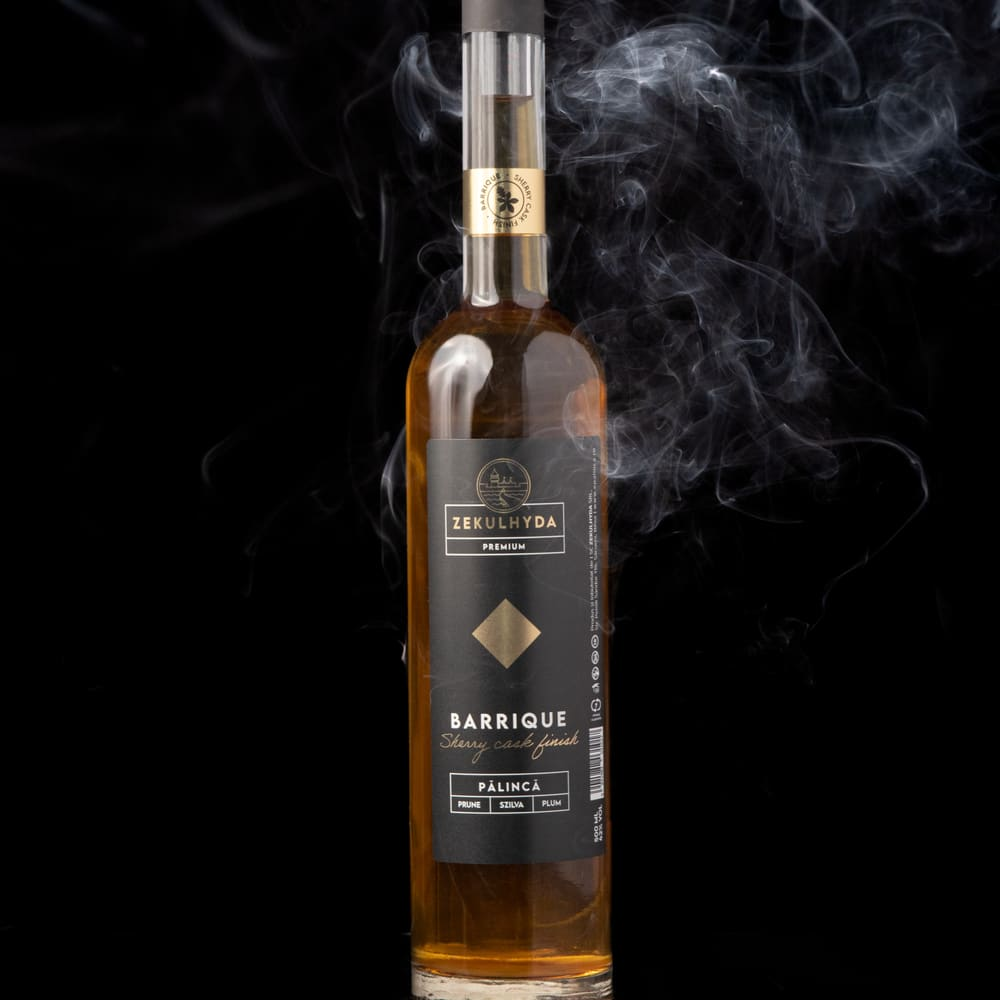
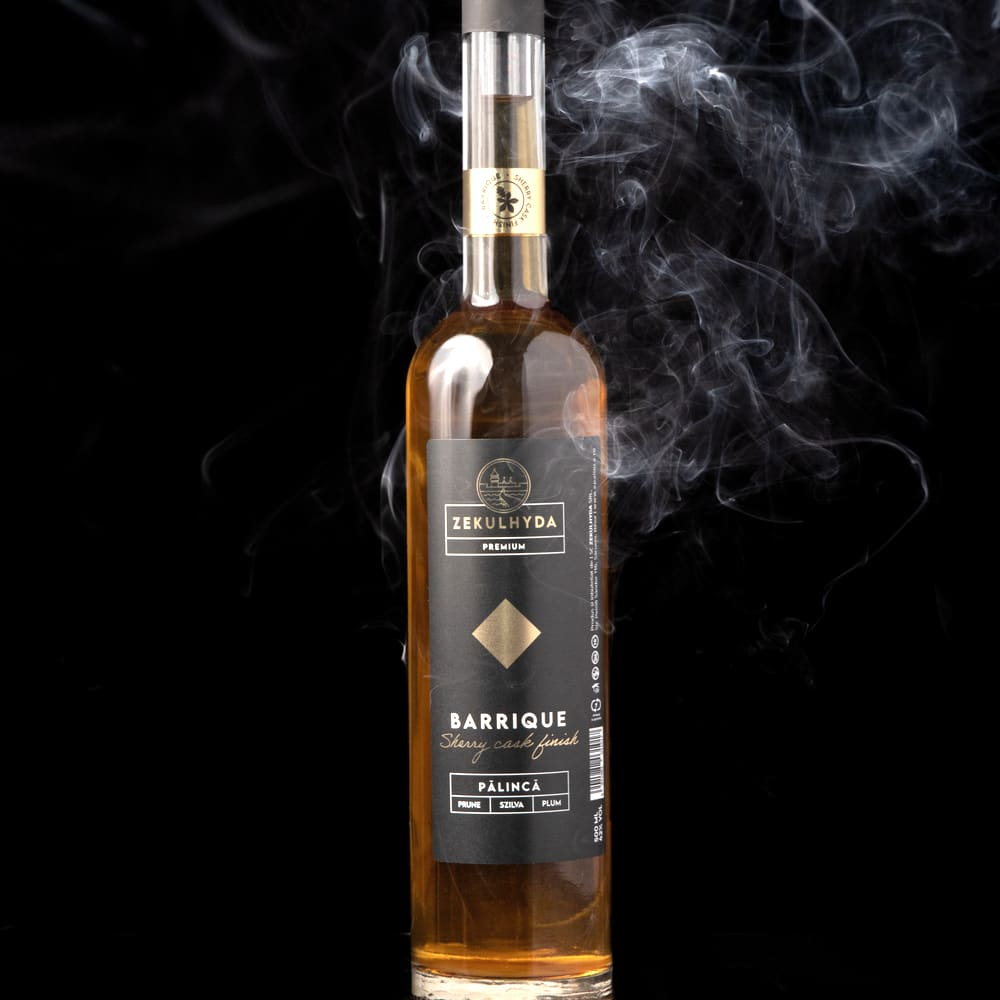
Tier photos brighter and more visible

Changed region(s): [[0.372, 0.0, 0.744, 0.837], [0.403, 0.93, 0.62, 1.0]]

diff --git a/assets/zekulhyda.css b/assets/zekulhyda.css
@@ -3174,8 +3174,8 @@ nav.main a.nav-shop.on { border-color: var(--amber-2); }
 
 
 /* Range tiers on photos: the picture shows through, text sits on a gradient. */
-.tier::before { opacity: .48; filter: grayscale(.1) contrast(1.05); }
-.tier:hover::before { opacity: .78; filter: grayscale(0) contrast(1.05); }
-.tier::after { content: ""; position: absolute; inset: 0; background: linear-gradient(180deg, rgba(11,11,12,.10) 0%, rgba(11,11,12,.45) 45%, rgba(11,11,12,.86) 100%); pointer-events: none; }
+.tier::before { opacity: .62; filter: grayscale(0) contrast(1.05); }
+.tier:hover::before { opacity: .9; filter: grayscale(0) contrast(1.05); }
+.tier::after { content: ""; position: absolute; inset: 0; background: linear-gradient(180deg, rgba(11,11,12,.05) 0%, rgba(11,11,12,.35) 50%, rgba(11,11,12,.85) 100%); pointer-events: none; }
 .tier > * { position: relative; z-index: 1; }
 .tier p { color: var(--silver); }
